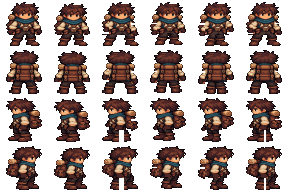
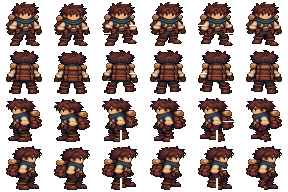
Rebuild four-way explorer walk with grounded alternating footfalls

diff --git a/tools/build_explorer_atlas.py b/tools/build_explorer_atlas.py
@@ -10,6 +10,7 @@ from PIL import Image
 ROOT = Path(__file__).resolve().parents[1]
 SOURCE = ROOT / "tools/source/explorer_views.png"
 DEST = ROOT / "assets/art/explorer_atlas.png"
+PREVIEW = ROOT / "docs/art/EXPLORER_WALK_V035.gif"
 SIZE = 48
 # Source views were individually cut and reduced from the reference study.
 BOXES = [
@@ -40,34 +41,42 @@ def idle(base: Image.Image, phase: int) -> Image.Image:
 
 
 def walk(base: Image.Image, direction: int, phase: int) -> Image.Image:
-    """Recompose limbs, so arm and boot poses change instead of moving a static cutout."""
+    """Four footfall poses: left contact, right passing, right contact, left passing.
+
+    Contact feet remain on the source ground line; a passing boot lifts two pixels.
+    Limbs move independently while the scarf, pack, head and torso keep their anchor.
+    """
     result = base.copy()
-    stance = (-1, 0, 1, 0)[phase]
-    passing = 1 if phase == 1 else -1 if phase == 3 else 0
-    bounce = 1 if phase == 1 else 0
-    # Waist/torso is stable. Only the lower leg silhouettes and sleeves move.
     result.paste((0, 0, 0, 0), (0, 34, SIZE, SIZE))
     if direction < 2:
-        left = base.crop((5, 34, 24, 48))
-        right = base.crop((24, 34, 43, 48))
-        result.alpha_composite(left, (5 + stance * 3 + passing, 34 - bounce))
-        result.alpha_composite(right, (24 - stance * 3 - passing, 34 - bounce))
-        # Exposed trousers beneath the belt connect each displaced leg.
-        for x in range(17, 31):
-            color = base.getpixel((x, 34))
-            if color[3] > 0:
-                result.putpixel((x, 34), color)
+        boxes = [(8, 34, 24, 47), (24, 34, 42, 47)]
     else:
-        # Profiles overlap at the waist, but their boots alternate in depth.
-        rear = base.crop((8, 34, 25, 48))
-        front = base.crop((25, 34, 43, 48))
-        result.alpha_composite(rear, (8 + stance * 2 + passing, 34 - bounce))
-        result.alpha_composite(front, (25 - stance * 3 - passing, 34 - bounce))
-    # Outer sleeves and gloves swing opposite the advancing leg.
-    for x0, x1, sign in ((4, 13, 1), (35, 44, -1)):
-        arm = base.crop((x0, 23, x1, 34))
-        result.paste((0, 0, 0, 0), (x0, 23, x1, 34))
-        result.alpha_composite(arm, (x0, 23 + sign * (stance * 2 + passing)))
+        boxes = [(9, 34, 25, 47), (25, 34, 43, 47)]
+    # x shifts stay small and never change leg width. y=0 is the planted sole.
+    offsets = [((-1, 0), (1, -2)), ((1, 0), (-2, -2)),
+               ((-1, -2), (1, 0)), ((2, -2), (-1, 0))][phase]
+    # The lifted limb goes behind the planted one. The belt is restored last.
+    order = (1, 0) if phase < 2 else (0, 1)
+    for index in order:
+        x0, y0, x1, y1 = boxes[index]
+        dx, dy = offsets[index]
+        leg = base.crop((x0, y0, x1, y1))
+        result.alpha_composite(leg, (x0 + dx, y0 + dy))
+        # Two tiny hip bridges prevent a detached leg at the waist.
+        hip_x = 18 if index == 0 else 29
+        for y in range(34, 36):
+            color = base.getpixel((hip_x, y))
+            if color[3]:
+                result.putpixel((hip_x + dx // 2, y), color)
+    # Stable belt and tunic cover the hip seams; sleeves swing in counterphase.
+    result.alpha_composite(base.crop((0, 30, SIZE, 34)), (0, 30))
+    swing = (-1, 0, 1, 0)[phase]
+    arms = ((5, 15), (33, 43)) if direction < 2 else ((31, 43),)
+    for arm_index, (x0, x1) in enumerate(arms):
+        arm = base.crop((x0, 25, x1, 34))
+        result.paste((0, 0, 0, 0), (x0, 25, x1, 34))
+        offset = swing if arm_index == 0 else -swing
+        result.alpha_composite(arm, (x0, 25 + offset))
     return result
 
 
@@ -81,6 +90,16 @@ def main() -> None:
         for column, frame in enumerate(frames):
             atlas.alpha_composite(frame, (column * SIZE, direction * SIZE))
     atlas.save(DEST, optimize=True)
+    preview_frames = []
+    for phase in range(4):
+        sheet = Image.new("RGBA", (SIZE * 4, SIZE), "#477b49")
+        for direction in range(4):
+            sheet.alpha_composite(atlas.crop(((phase + 2) * SIZE, direction * SIZE,
+                                             (phase + 3) * SIZE, (direction + 1) * SIZE)),
+                                  (direction * SIZE, 0))
+        preview_frames.append(sheet.resize((SIZE * 12, SIZE * 3), Image.Resampling.NEAREST).convert("RGB"))
+    preview_frames[0].save(PREVIEW, save_all=True, append_images=preview_frames[1:],
+                           duration=160, loop=0, optimize=True)
     print(f"Wrote {DEST.relative_to(ROOT)}: {atlas.size}")
 
 
